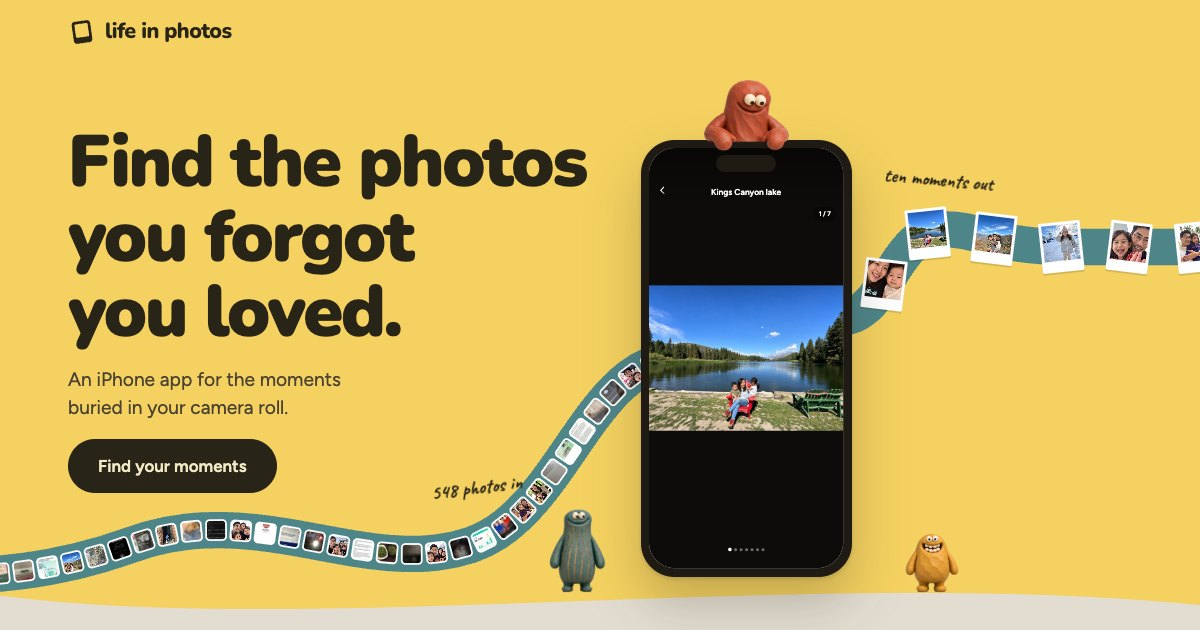
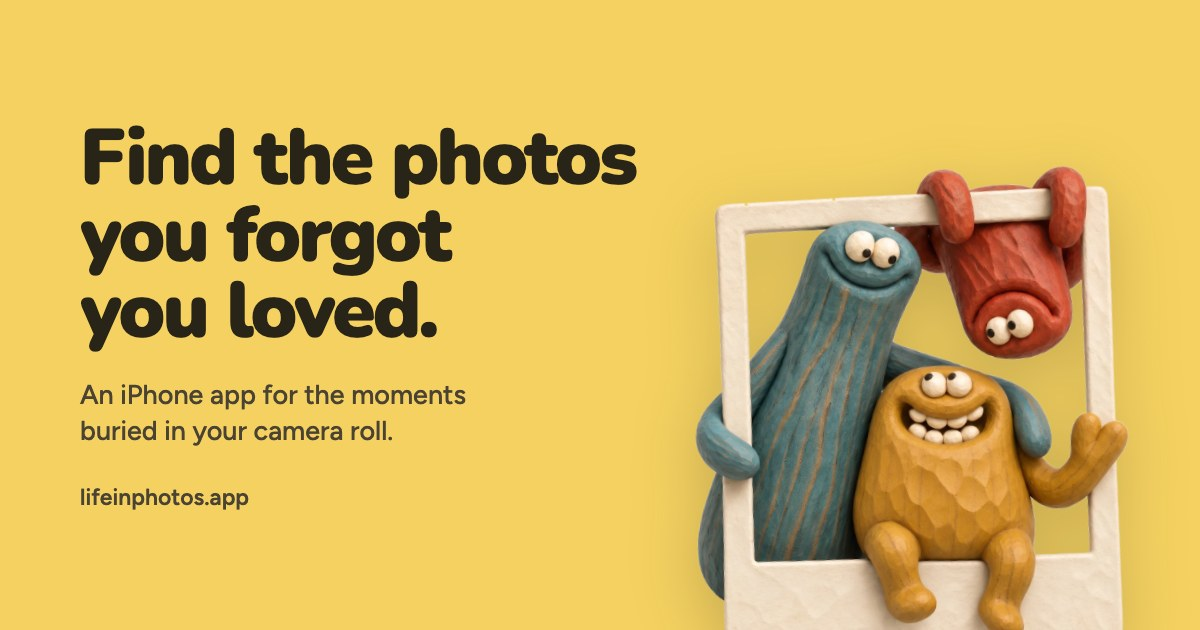
Share image: the friends in their Polaroid beside the headline
Simpler than the hero capture: the brand yellow, the headline and
description on the left, the three wooden friends on the right, in English
and Traditional Chinese.

diff --git a/app/[lang]/layout.tsx b/app/[lang]/layout.tsx
@@ -28,7 +28,7 @@ export async function generateMetadata({ params }: LayoutProps<"/[lang]">): Prom
     },
     // A locale still in draft (or not yet translated) stays out of search until a native speaker has reviewed it.
     robots: dict.status !== "translated" ? { index: false, follow: true } : undefined,
-    // The share image is the hero, captured at 1200×630 in each language (public/og/).
+    // The share image (public/og/): the friends in their Polaroid beside the headline, 1200×630, one per language.
     openGraph: {
       title: dict.meta.ogTitle,
       description: dict.meta.ogDescription,

diff --git a/README.md b/README.md
@@ -63,4 +63,4 @@ Deploy the directory as a Next.js project on Vercel. Add the environment variabl
 
 The site's address, `https://lifeinphotos.app`, lives in `lib/site.ts`: canonical links, share images, `robots.txt`, `sitemap.xml` and (unless `SITE_URL` is set) the links in welcome emails.
 
-Icons are `app/favicon.ico`, `app/icon.svg` (the tilted-frame mark on the brand yellow) and `app/apple-icon.png` (the app icon). Each language's share image is `public/og/<locale>.jpg`, the hero captured at 1200×630; recapture it if the hero changes. The sitemap lists only locales whose dictionary `status` is `"translated"`.
+Icons are `app/favicon.ico`, `app/icon.svg` (the tilted-frame mark on the brand yellow) and `app/apple-icon.png` (the app icon). Each language's share image is `public/og/<locale>.jpg` (1200×630): the three friends in their Polaroid beside the headline and description, on the brand yellow. It was designed on the "Life in Photos share image" Design canvas (board E); re-render it if the headline or description changes. The sitemap lists only locales whose dictionary `status` is `"translated"`.
